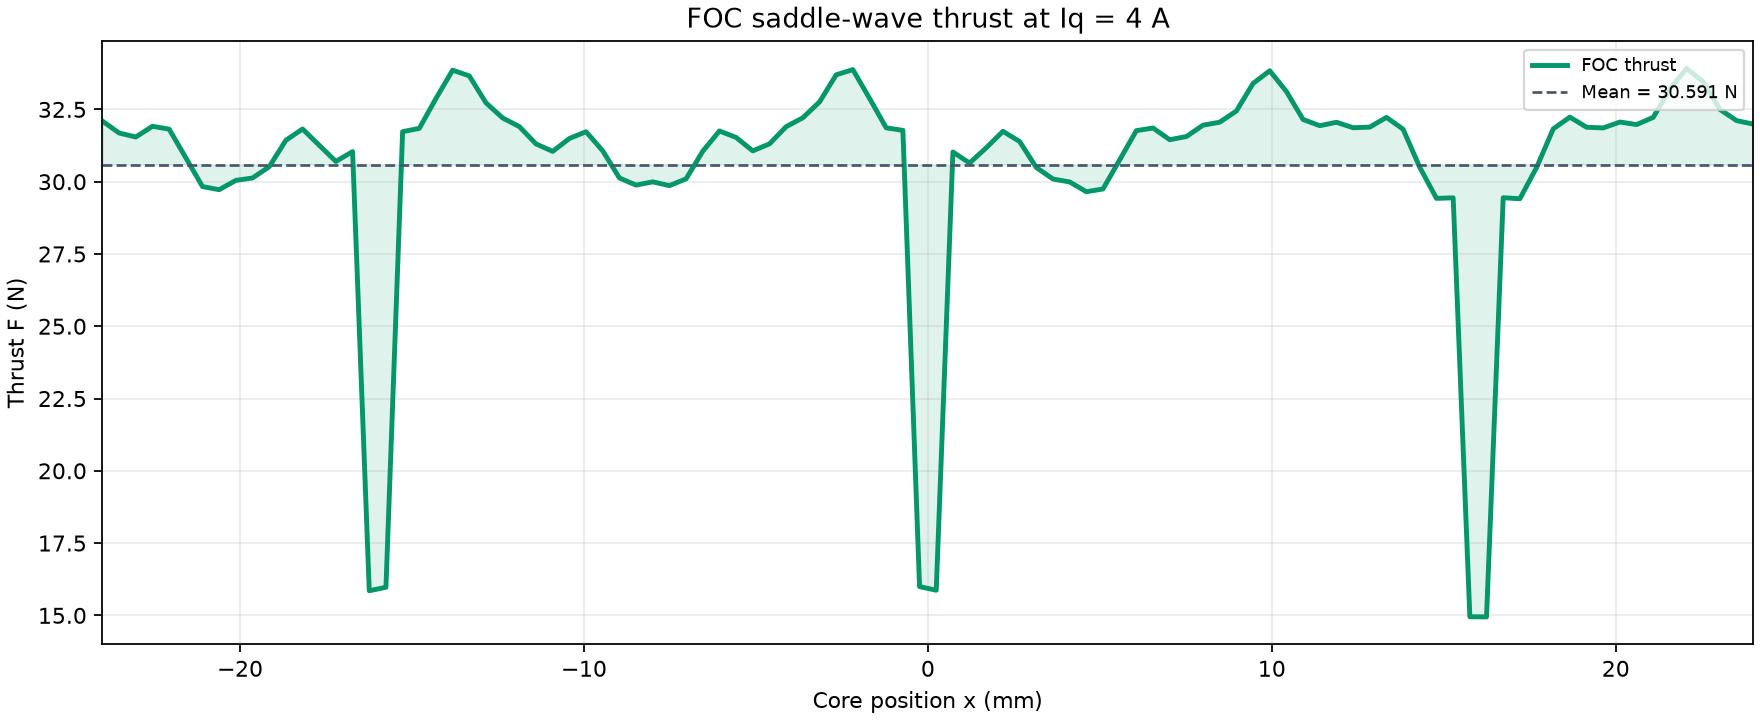
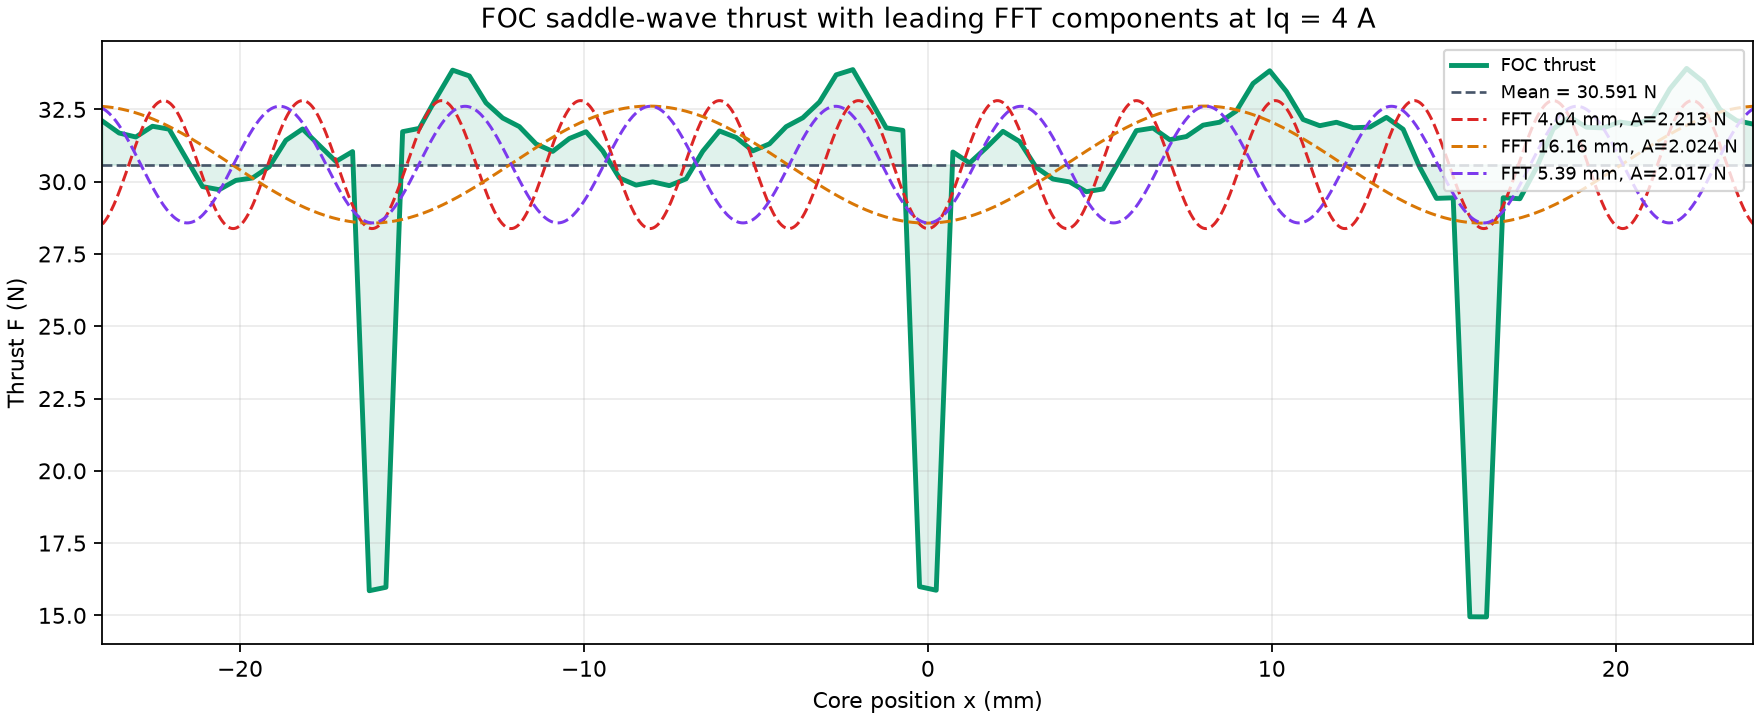
feat: show FFT thrust components

diff --git a/halbach_field_n52.html b/halbach_field_n52.html
@@ -196,7 +196,7 @@ const forceCurve = document.querySelector('#forceCurve');
   const thrustCurve = document.querySelector('#thrustCurve');
 const mapLabel = document.querySelector('#mapLabel');
 const motionStatus = document.querySelector('#motionStatus');
-const animationRevision = 'roundtrip-24-v1';
+const animationRevision = 'roundtrip-24-v1-foc-fft-v1';
 for (const button of document.querySelectorAll('.mapButton')) {
   button.onclick = () => {
     const map = fieldMaps[button.dataset.map];

diff --git a/cogging_fdm.py b/cogging_fdm.py
@@ -386,8 +386,21 @@ if ANIMATE:
         thrust_axis.plot(sample_positions, thrust_samples, color="#059669", linewidth=2.2, label="FOC thrust")
         thrust_axis.fill_between(sample_positions, thrust_samples, mean_thrust, color="#059669", alpha=0.12)
         thrust_axis.axhline(mean_thrust, color="#475569", linestyle="--", linewidth=1.2, label=f"Mean = {mean_thrust:.3f} N")
+        thrust_fft = np.fft.rfft(thrust_samples - mean_thrust)
+        component_indexes = np.argsort(np.abs(thrust_fft[1:]))[-3:] + 1
+        component_indexes = component_indexes[np.argsort(np.abs(thrust_fft[component_indexes]))[::-1]]
+        display_positions = np.linspace(sample_positions[0], sample_positions[-1], 1000)
+        display_indexes = (display_positions - sample_positions[0]) / (sample_positions[1] - sample_positions[0])
+        sample_step = sample_positions[1] - sample_positions[0]
+        component_colors = ("#dc2626", "#d97706", "#7c3aed")
+        for component_index, color in zip(component_indexes, component_colors):
+            amplitude = 2 * abs(thrust_fft[component_index]) / len(thrust_samples)
+            phase = np.angle(thrust_fft[component_index])
+            component = mean_thrust + amplitude * np.cos(2 * np.pi * component_index * display_indexes / len(thrust_samples) + phase)
+            period_mm = sample_step * len(thrust_samples) / component_index
+            thrust_axis.plot(display_positions, component, "--", color=color, linewidth=1.35, label=f"FFT {period_mm:.2f} mm, A={amplitude:.3f} N")
         thrust_axis.set(
-            title="FOC saddle-wave thrust at Iq = 4 A",
+            title="FOC saddle-wave thrust with leading FFT components at Iq = 4 A",
             xlabel="Core position x (mm)",
             ylabel="Thrust F (N)",
             xlim=(-24, 24),

diff --git a/.monkeycode/specs/foc-thrust-curve/design.md b/.monkeycode/specs/foc-thrust-curve/design.md
@@ -5,3 +5,5 @@
 三个齿中心为 `2.5 mm`、`18.5 mm`、`34.5 mm`。求解器从每相磁链的基波相位识别 d 轴，电流保持在对应 q 轴，并使用 `sin(θ) + sin(3θ)/6` 的三次谐波注入波形，归一化到 `Iq=4 A` 峰值。位置差分获得磁链梯度，瞬时相电流与梯度的内积得到推力。
 
 该模型保留现有二维线性磁路、默认相序和有限阵列端部效应，适合相同结构间的推力与推力纹波比较。绕组实际相序、绕向、端部绕组与 B-H 非线性会影响实机绝对值。
+
+推力曲线去除平均值后执行实数 FFT，选择幅值最高的三个非直流分量。分量通过解析余弦函数重建为 1000 个显示点，并以总推力均值为基线叠加显示，图例包含对应空间周期和幅值。

diff --git a/.monkeycode/specs/foc-thrust-curve/requirements.md b/.monkeycode/specs/foc-thrust-curve/requirements.md
@@ -11,4 +11,5 @@
 - 系统应采用三次谐波注入马鞍波电流，且相电流峰值为 4 A。
 - 系统应以 `F = Σ i_phase · dλ_phase/dx` 计算电磁推力。
 - 系统应为每种已展示的阵列输出独立 PNG，并在网页随方案切换。
+- 系统应叠加推力纹波中幅值最高的三个非直流 FFT 分量，并标注空间周期与幅值。
 - 曲线应与齿槽力分开呈现。
